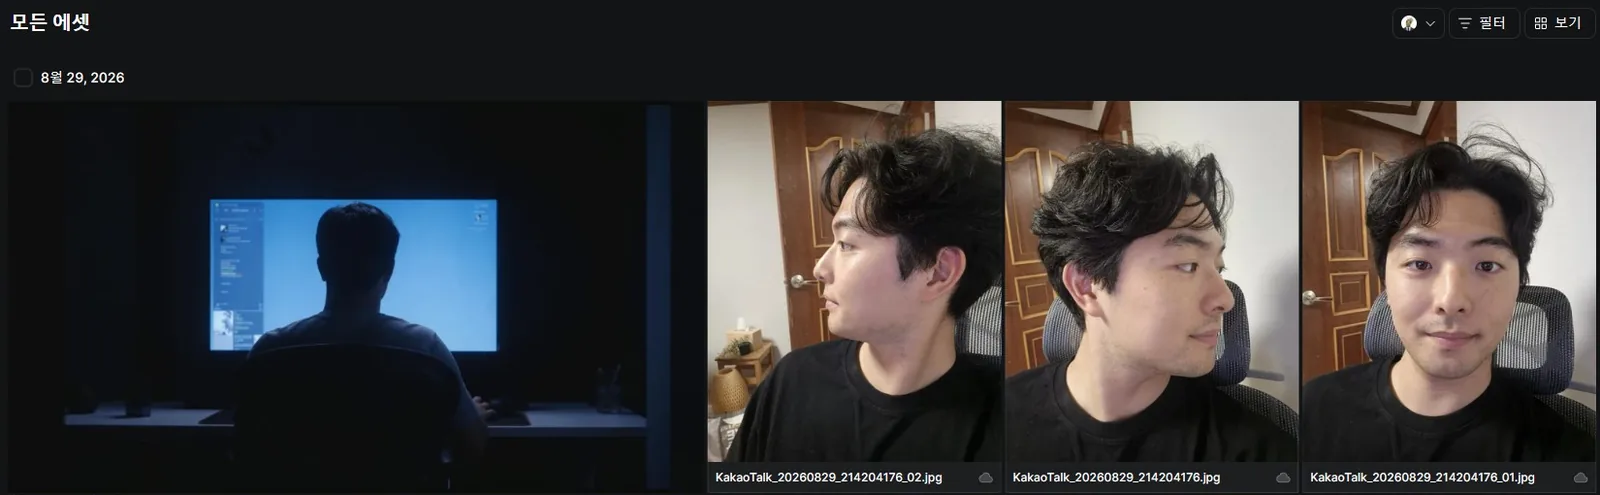
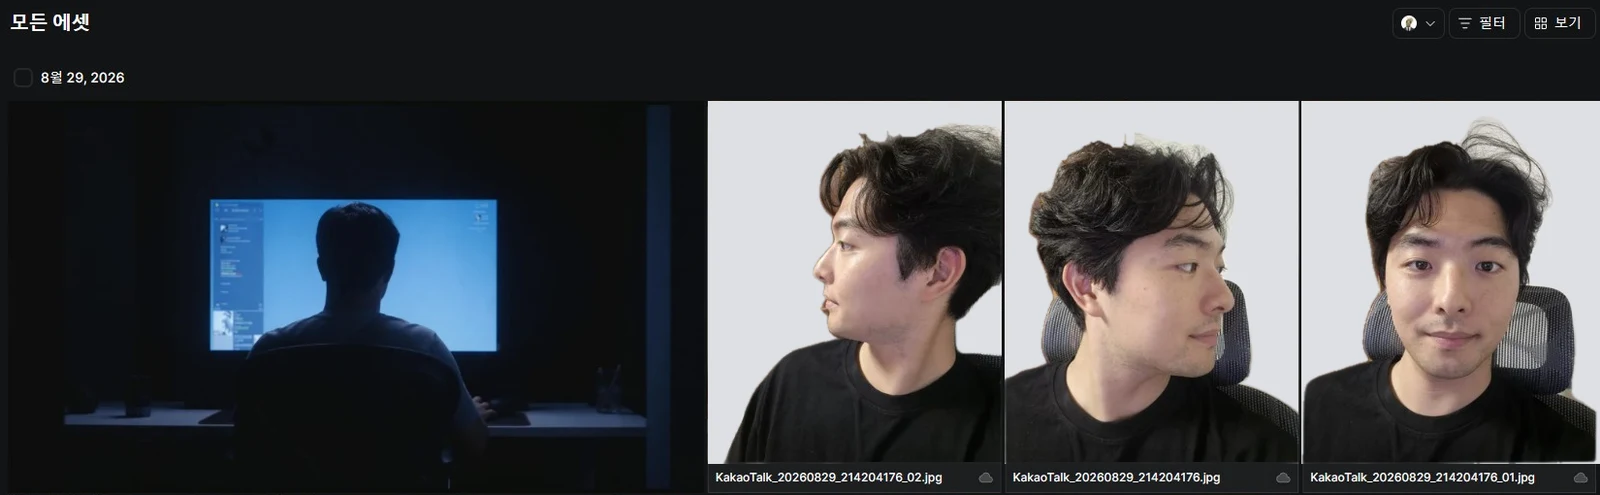
식중영상 1부: 얼굴 레퍼런스·캐릭터 사진의 집 배경을 단색으로 바꿈
Claude-Session: https://claude.ai/code/session_013TrZqRyKgS2c1ySCm46thY

diff --git a/posts/higgsfield-wedding-film/index.html b/posts/higgsfield-wedding-film/index.html
@@ -114,11 +114,11 @@
 <h2 id="_2">장소는 요소로, 얼굴은 각도로</h2>
 <p>힉스필드는 장소와 캐릭터를 요소로 저장해 두고 프롬프트에서 골뱅이로 부를 수 있다. 예식장, 설산, 달, 작업실, 여름 거리, 공원, 카페를 장소 요소로 만들었다. 설산과 달은 버전이 여러 개라 @bg-snow-5, @bg-moon-4까지 갔다.</p>
 <p><img alt="힉스필드 요소 화면. loc, bg-snow-5, bg-moon-4, room, bg-summer, bg-park, bg-cafe 장소와 강준구-cinema 캐릭터" src="/images/20261027-wedding-film-1/08-힉스필드-요소.webp" />
-<small>힉스필드에 저장한 장소 요소 7개와 캐릭터 요소 하나</small></p>
+<small>힉스필드에 저장한 장소 요소 7개와 캐릭터 요소 하나. 캐릭터 사진의 집 배경은 단색으로 바꿨다</small></p>
 <p>작업 순서는 끝까지 하나로 고정했다. <strong>장소 이미지를 먼저 만들고, 그 장소에 인물을 넣은 이미지를 만든 다음, 그 이미지를 영상으로 움직인다.</strong> 영상 단계에서 장소와 인물을 따로 던지면 둘이 어긋났고, 첫 프레임으로 넣은 이미지는 영상에 그대로 들어갔다.</p>
 <p>얼굴은 시행착오가 더 길었다. 처음에는 얼굴 사진 한 장으로 캐릭터 요소(@char_jungu, @char_sumin)를 만들었는데 얼굴이 약하게 나왔다. 그래서 요소 대신 사진을 직접 레퍼런스로 넣는 방식으로 바꿨고, 이번엔 사진을 많이 넣을수록 좋을 줄 알았다. 반대였다.</p>
 <p><img alt="힉스필드 식중영상 프로젝트. 어두운 작업실 이미지와 내 얼굴 옆모습·45도·정면 사진" src="/images/20261027-wedding-film-1/07-힉스필드-프로젝트-얼굴.webp" />
-<small>8월 29일 프로젝트에 올린 내 얼굴 사진. 옆모습, 45도, 정면을 따로 찍어 올렸다</small></p>
+<small>8월 29일 프로젝트에 올린 내 얼굴 사진. 옆모습, 45도, 정면을 따로 찍어 올렸다. 집 안이 보여서 사진 뒤 배경만 단색으로 바꿨다</small></p>
 <p>정면, 측면, 고개 숙인 사진을 한꺼번에 넣으면 각도마다 평균이 나서 얼굴이 뭉개졌다. 그래서 원칙을 바꿨다.</p>
 <table>
 <thead>
